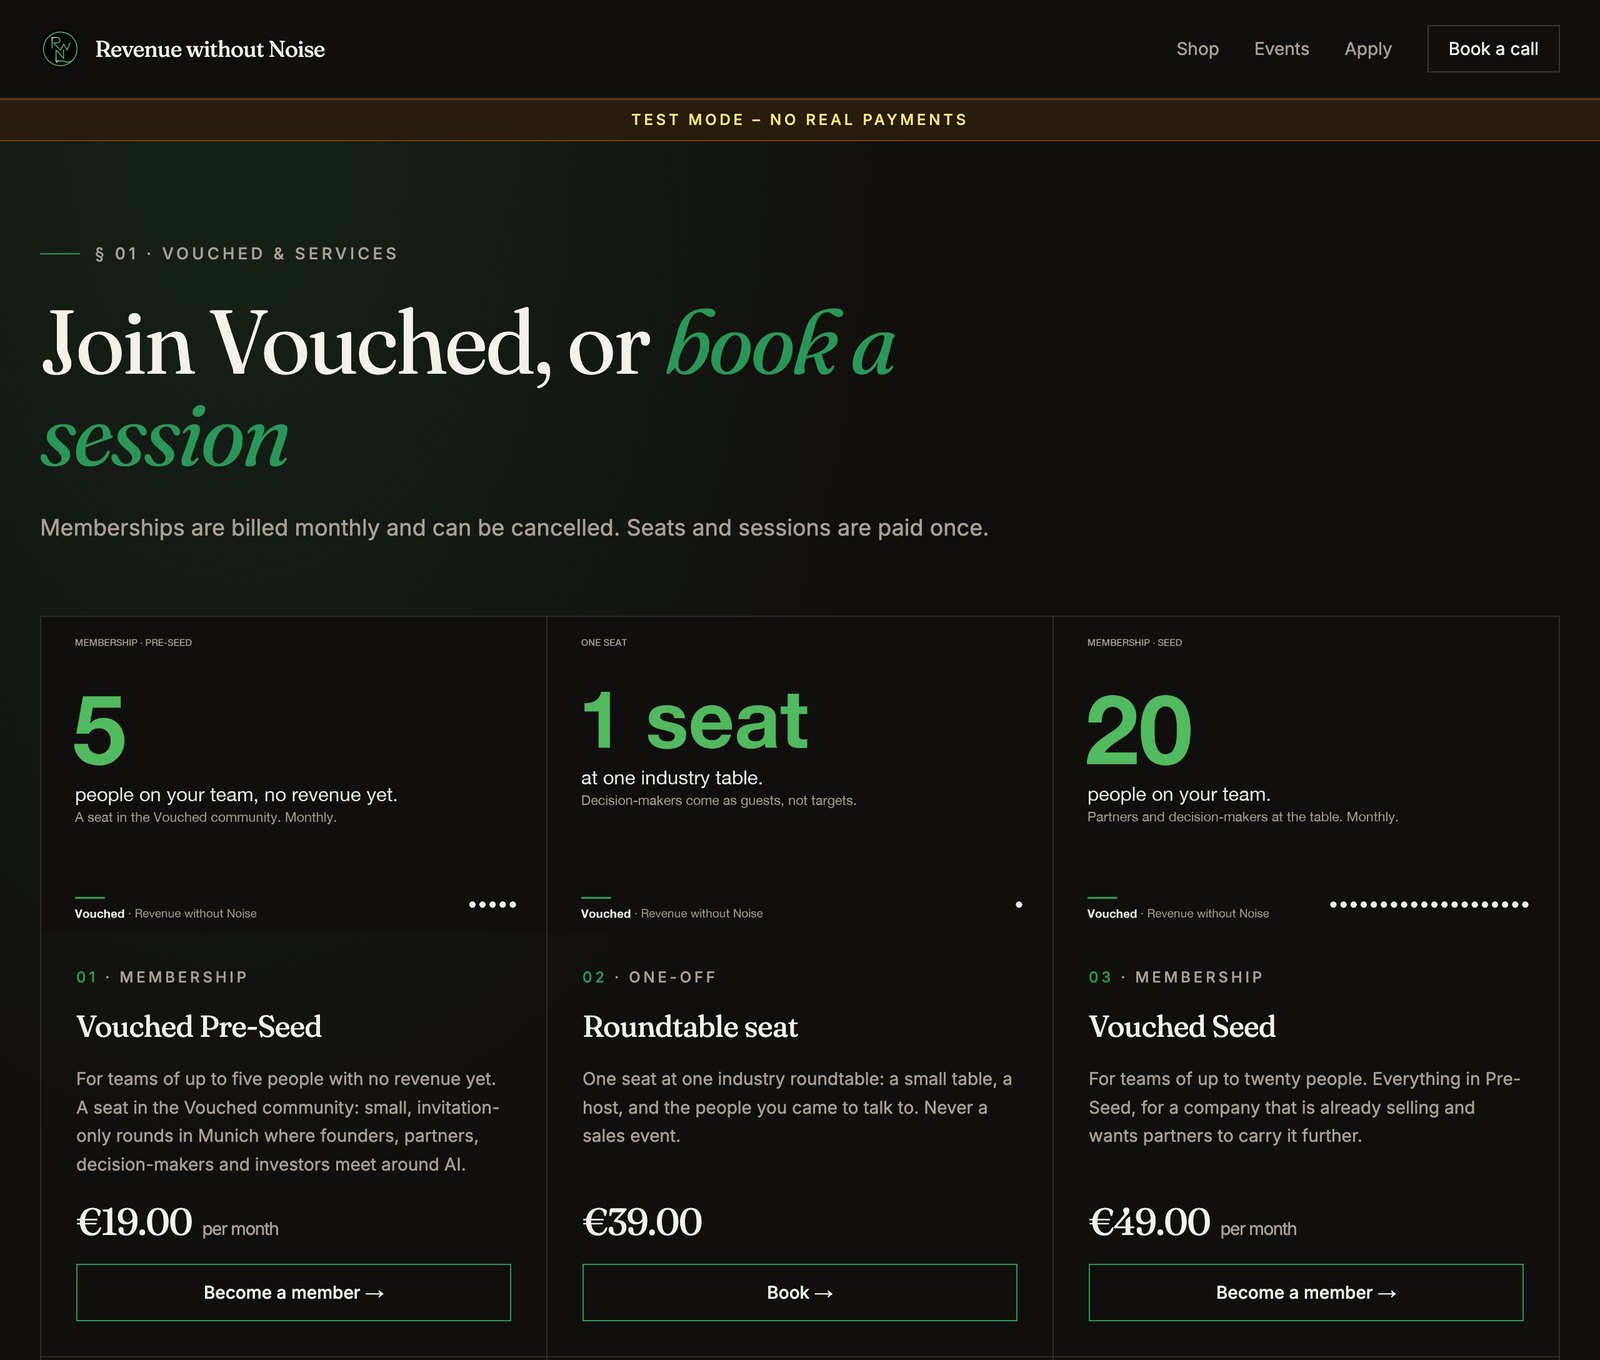
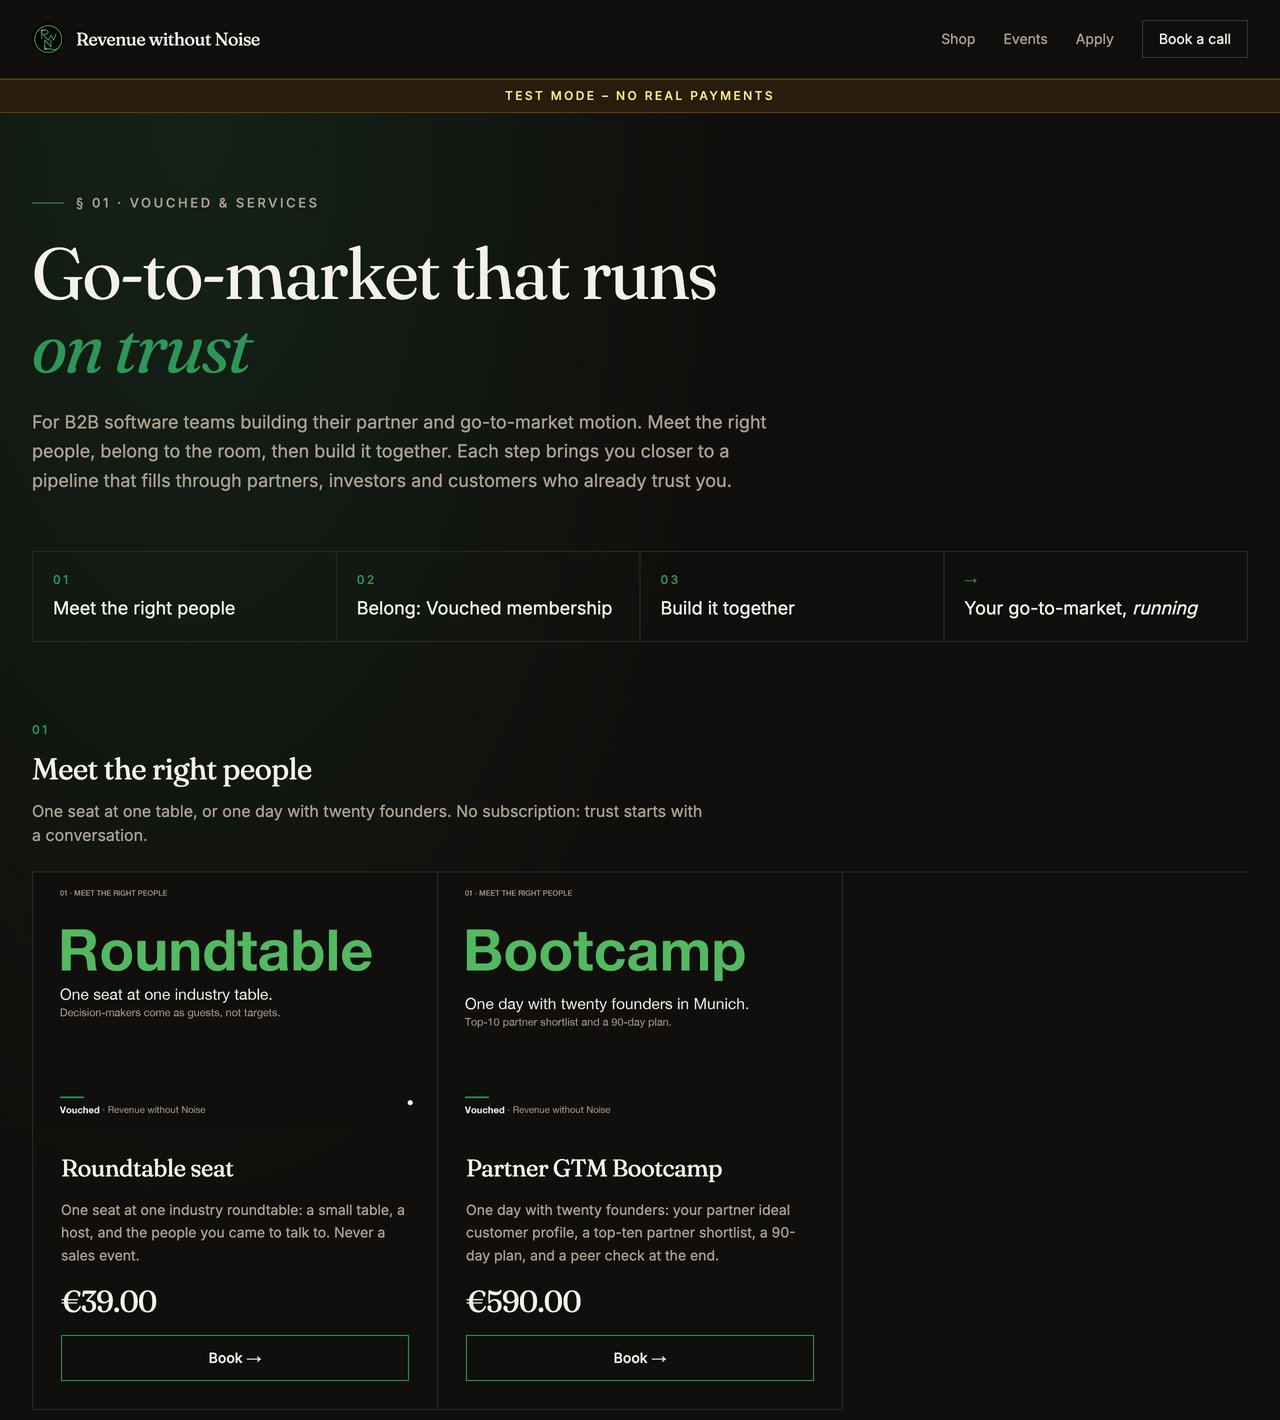
Show the funnel in the README screenshot

diff --git a/README.md b/README.md
@@ -6,7 +6,7 @@
 
 **Live:** https://revenue-without-noise.vercel.app · **Admin:** `/admin`
 
-![The live shop: Vouched memberships and bookable services, each with photo, price and buy button, under the test-mode banner](docs/images/shop.jpg)
+![The live shop as one path: meet the right people, belong to Vouched, build it together, then the individual go-to-market build; each product with photo, price and buy button, under the test-mode banner](docs/images/shop.jpg)
 
 ## What the shop sells
 
